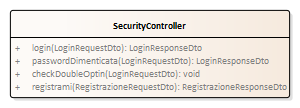
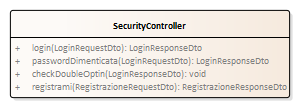
Risolto ticket #27: cambiato parametro controller double opt in

Changed region(s): [[0.45, 0.6389, 0.69, 0.7222]]

diff --git a/uml/EARoot/EA9/EA2/EA450.htm b/uml/EARoot/EA9/EA2/EA450.htm
@@ -2,7 +2,7 @@
 <html xmlns="http://www.w3.org/1999/xhtml">
 <head>
 <meta http-equiv="Content-Type" content="text/html; charset=UTF-8" />
-<title>Security::SecurityController</title>
+<title>SecurityController</title>
 <link href="../../../css/ea.css" rel="stylesheet" type="text/css" />
 <script>
 function initPage(src) {	
@@ -194,7 +194,7 @@ function nameClassifier(name, separator)
 			<tr>
 				<td width="100%" class="TableRow">
 					<i>Public</i><br />
-					<strong>checkDoubleOptin</strong>(					<a href="#" onclick="parent.toggleData('param{0EAD8C15-B884-4969-BE28-1CD3E039AB96}')" style="text-decoration: none; color: #000000;"><img src="../../../images/plus03.gif" align="absmiddle" id="param{0EAD8C15-B884-4969-BE28-1CD3E039AB96}" border="0" />dto: LoginRequestDto</a>, 
+					<strong>checkDoubleOptin</strong>(					<a href="#" onclick="parent.toggleData('param{0EAD8C15-B884-4969-BE28-1CD3E039AB96}')" style="text-decoration: none; color: #000000;"><img src="../../../images/plus03.gif" align="absmiddle" id="param{0EAD8C15-B884-4969-BE28-1CD3E039AB96}" border="0" />dto: LoginResponseDto</a>, 
 					<table border="0" cellspacing="0" cellpadding="0" class="Table" style="padding: 4px 18px;">
 						<tr id="param{0EAD8C15-B884-4969-BE28-1CD3E039AB96}00" style="display: none;">
 							<td width="50"><strong>Default:</strong></td>

diff --git a/uml/index.htm b/uml/index.htm
@@ -6,7 +6,7 @@
 <link href="css/ea.css" rel="stylesheet" type="text/css" />
 <script language="JavaScript" src="js/displayToc.js" type="text/javascript"></script>
 </head>
-<body onload="initLoad(this,'toc.htm','./EARoot/EA14/EA2/EA508.htm')" onresize="resizePage()">
+<body onload="initLoad(this,'toc.htm','./EARoot/EA9/EA2/EA447.htm')" onresize="resizePage()">
 <div class="IndexTitle">
 	Model
 </div>
